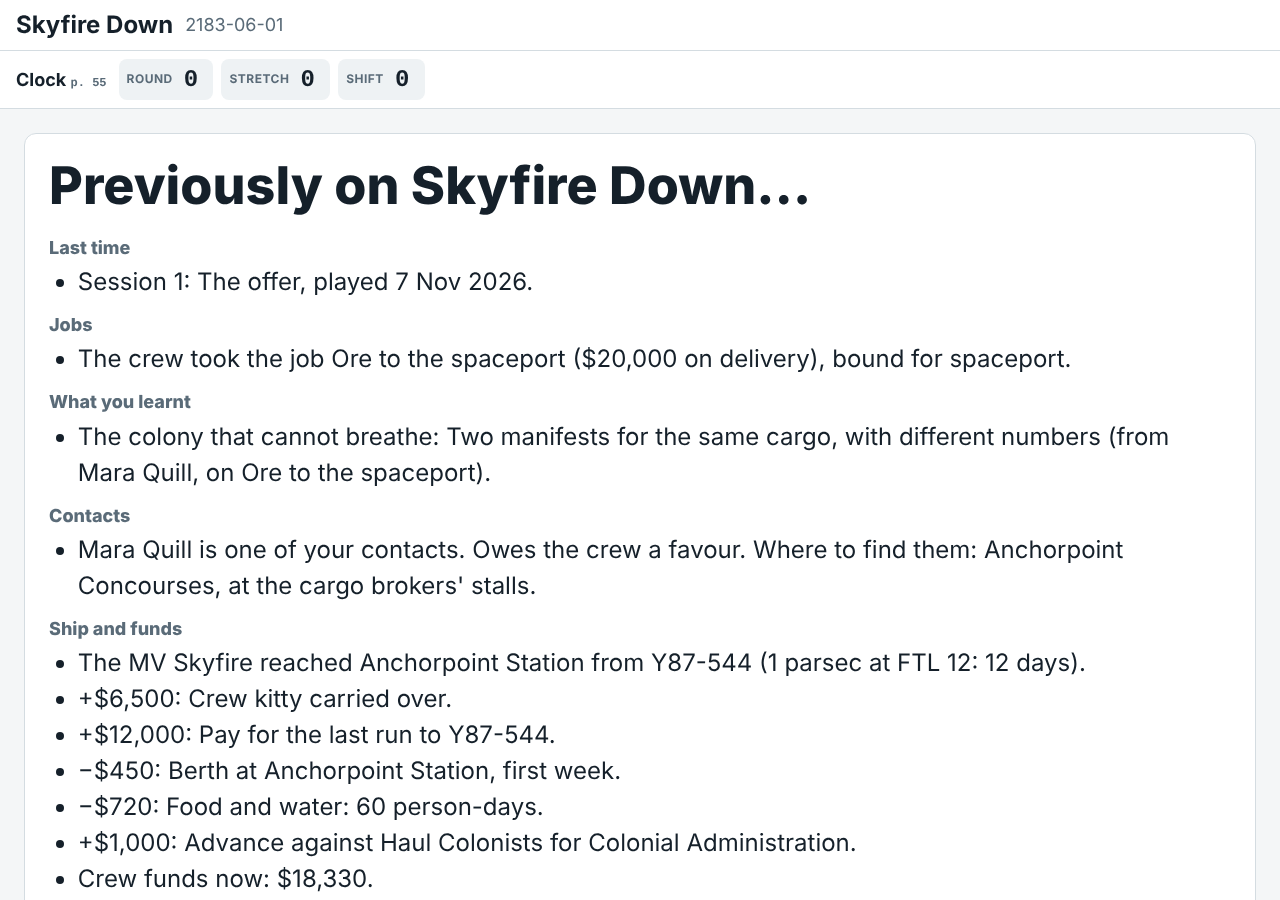
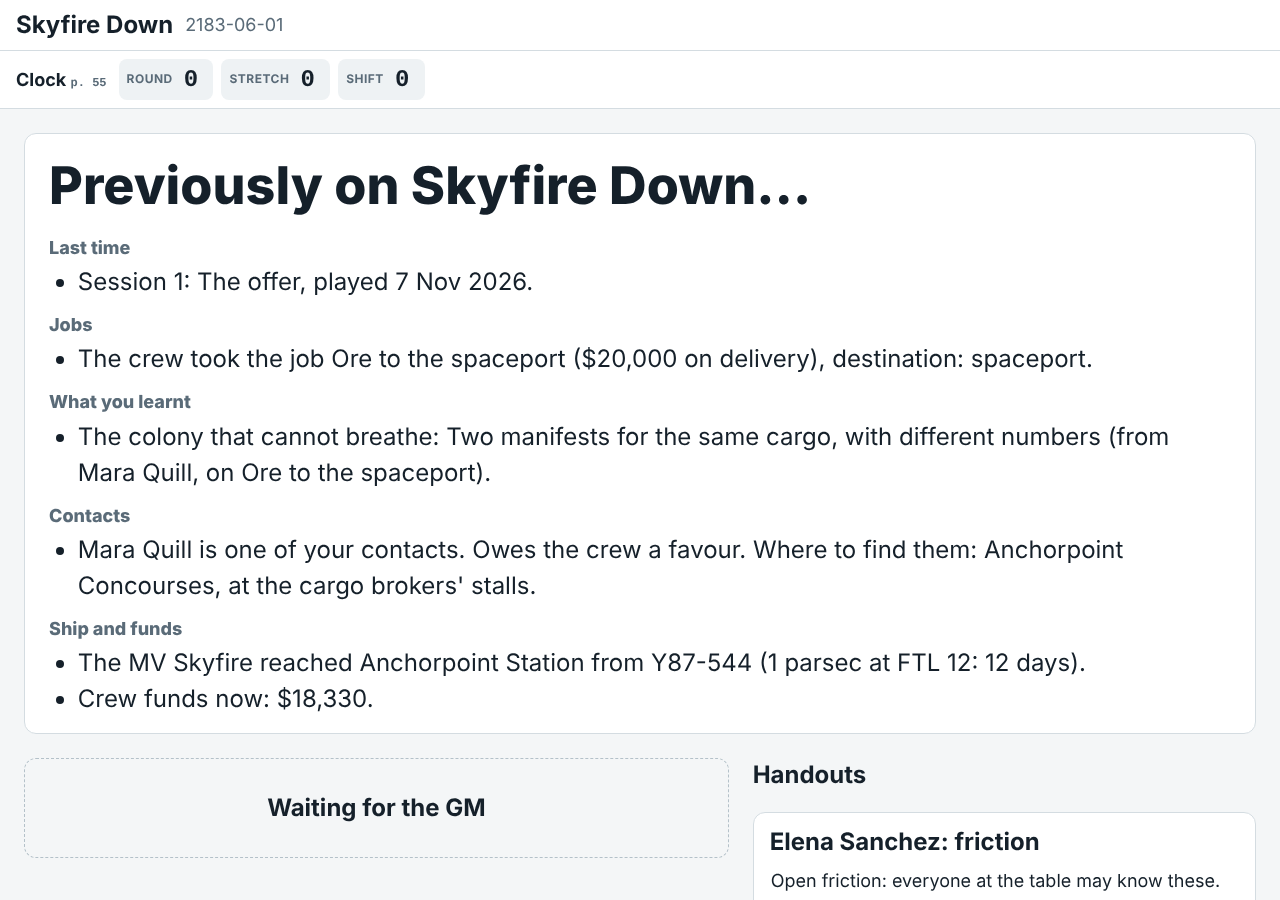
Recap: the read-aloud gives the crew's funds, not every ledger entry
Claude-Session: https://claude.ai/code/session_01PjoAoT19ZxbEizz2Vq94tE

Changed region(s): [[0.0625, 0.7467, 0.9375, 0.9956], [0.6562, 0.3733, 0.8438, 0.4356], [0.5938, 0.84, 0.6875, 0.8711]]

diff --git a/packages/module-alien/src/recap.ts b/packages/module-alien/src/recap.ts
@@ -60,7 +60,7 @@ function jobsSection(x: Ctx): RecapSectionDraft | undefined {
     }
     const where = str(job.fields.destination);
     const bits = [employer ? `for ${employer}` : "", pay ? `${pay} on delivery` : ""].filter(Boolean).join(", ");
-    lines.push({ key: "alien.job-taken", ref: job.id, text: `The crew took the job ${job.name}${bits ? ` (${bits})` : ""}${where ? `, bound for ${lowerFirst(stop(where))}` : ""}.`, links: [link(job)] });
+    lines.push({ key: "alien.job-taken", ref: job.id, text: `The crew took the job ${job.name}${bits ? ` (${bits})` : ""}${where ? `, destination: ${lowerFirst(stop(where))}` : ""}.`, links: [link(job)] });
   }
   return lines.length ? { id: "alien.jobs", title: "Jobs", audience: x.s.audience, order: 25, lines } : undefined;
 }
@@ -178,7 +178,8 @@ function shipSection(x: Ctx): RecapSectionDraft | undefined {
     lines.push({ key: "alien.travel", ref: t.id, text, links: ship ? [link(ship)] : [] });
   }
   const shared = x.s.ledger.filter((l) => !l.account);
-  for (const l of shared.slice(-6)) lines.push({ key: "alien.ledger", ref: l.id, text: `${money(l.amount, true)}: ${stop(l.note || l.category.replace(/-/g, " "))}.` });
+  // the read-aloud gives the players the total only; the GM sees the entries
+  if (x.gm) for (const l of shared.slice(-6)) lines.push({ key: "alien.ledger", ref: l.id, text: `${money(l.amount, true)}: ${stop(l.note || l.category.replace(/-/g, " "))}.` });
   if (shared.length) lines.push({ key: "alien.balance", text: `Crew funds now: ${money(x.s.balance)}.` });
   return lines.length ? { id: "alien.ship", title: "Ship and funds", audience: x.s.audience, order: 55, lines } : undefined;
 }

diff --git a/apps/web/e2e/recap.spec.ts b/apps/web/e2e/recap.spec.ts
@@ -37,15 +37,15 @@ test("recap: open session 2, toggle a line, show the read-aloud on the player sc
   const gmTitle = clueLine.split(":")[0]!;
   expect(secretLine.length).toBeGreaterThan(10);
 
-  // 3. the read-aloud: switch the crew kitty line off
+  // 3. the read-aloud: switch the crew funds line off
   await card.getByRole("tab", { name: /Read-aloud/ }).click();
   const read = card.getByTestId("recap-players");
   await expect(read).toContainText("Session 1: The offer, played 7 Nov 2026.");
   await expect(read).toContainText("Mara Quill is one of your contacts.");
   await expect(read).not.toContainText(gmTitle);
-  const kitty = read.getByTestId("recap-line").filter({ hasText: "Crew kitty carried over" });
-  await kitty.getByRole("checkbox").uncheck();
-  await expect(kitty).toHaveAttribute("data-off", "true");
+  const funds = read.getByTestId("recap-line").filter({ hasText: "Crew funds now" });
+  await funds.getByRole("checkbox").uncheck();
+  await expect(funds).toHaveAttribute("data-off", "true");
 
   // 4. show it on the player screen
   await card.getByTestId("recap-show").click();
@@ -56,7 +56,7 @@ test("recap: open session 2, toggle a line, show the read-aloud on the player sc
   await expect(shown).toBeVisible();
   await expect(shown).toContainText("Previously on Skyfire Down");
   await expect(shown).toContainText("Mara Quill");
-  await expect(shown).not.toContainText("Crew kitty carried over");
+  await expect(shown).not.toContainText("Crew funds now");
   const screen = players.getByTestId("player-screen");
   await expect(screen).not.toContainText(secretLine);
   await expect(screen).not.toContainText(gmTitle);

diff --git a/packages/module-alien/test/recap.test.ts b/packages/module-alien/test/recap.test.ts
@@ -46,7 +46,7 @@ describe("Alien recap lines", () => {
     expect(sections.map((s) => s.id)).toEqual(["alien.jobs", "alien.clues", "alien.contacts", "alien.ship", "alien.hunt", "secrets"]);
     expect(sections.every((s) => s.audience === "gm")).toBe(true);
     const t = texts(gmSnapshot());
-    expect(t).toContain("The crew took the job Ore to the spaceport (for Geofund, $20,000 on delivery), bound for spaceport.");
+    expect(t).toContain("The crew took the job Ore to the spaceport (for Geofund, $20,000 on delivery), destination: spaceport.");
     expect(t.join("\n")).not.toContain("An old run");
     expect(t).toContain("GM-TITLE: A second manifest (from Mara Quill, on Ore to the spaceport).");
     expect(t).toContain("Mara Quill is a contact (friendly). Owes the crew a favour. Where to find them: the cargo stalls.");
